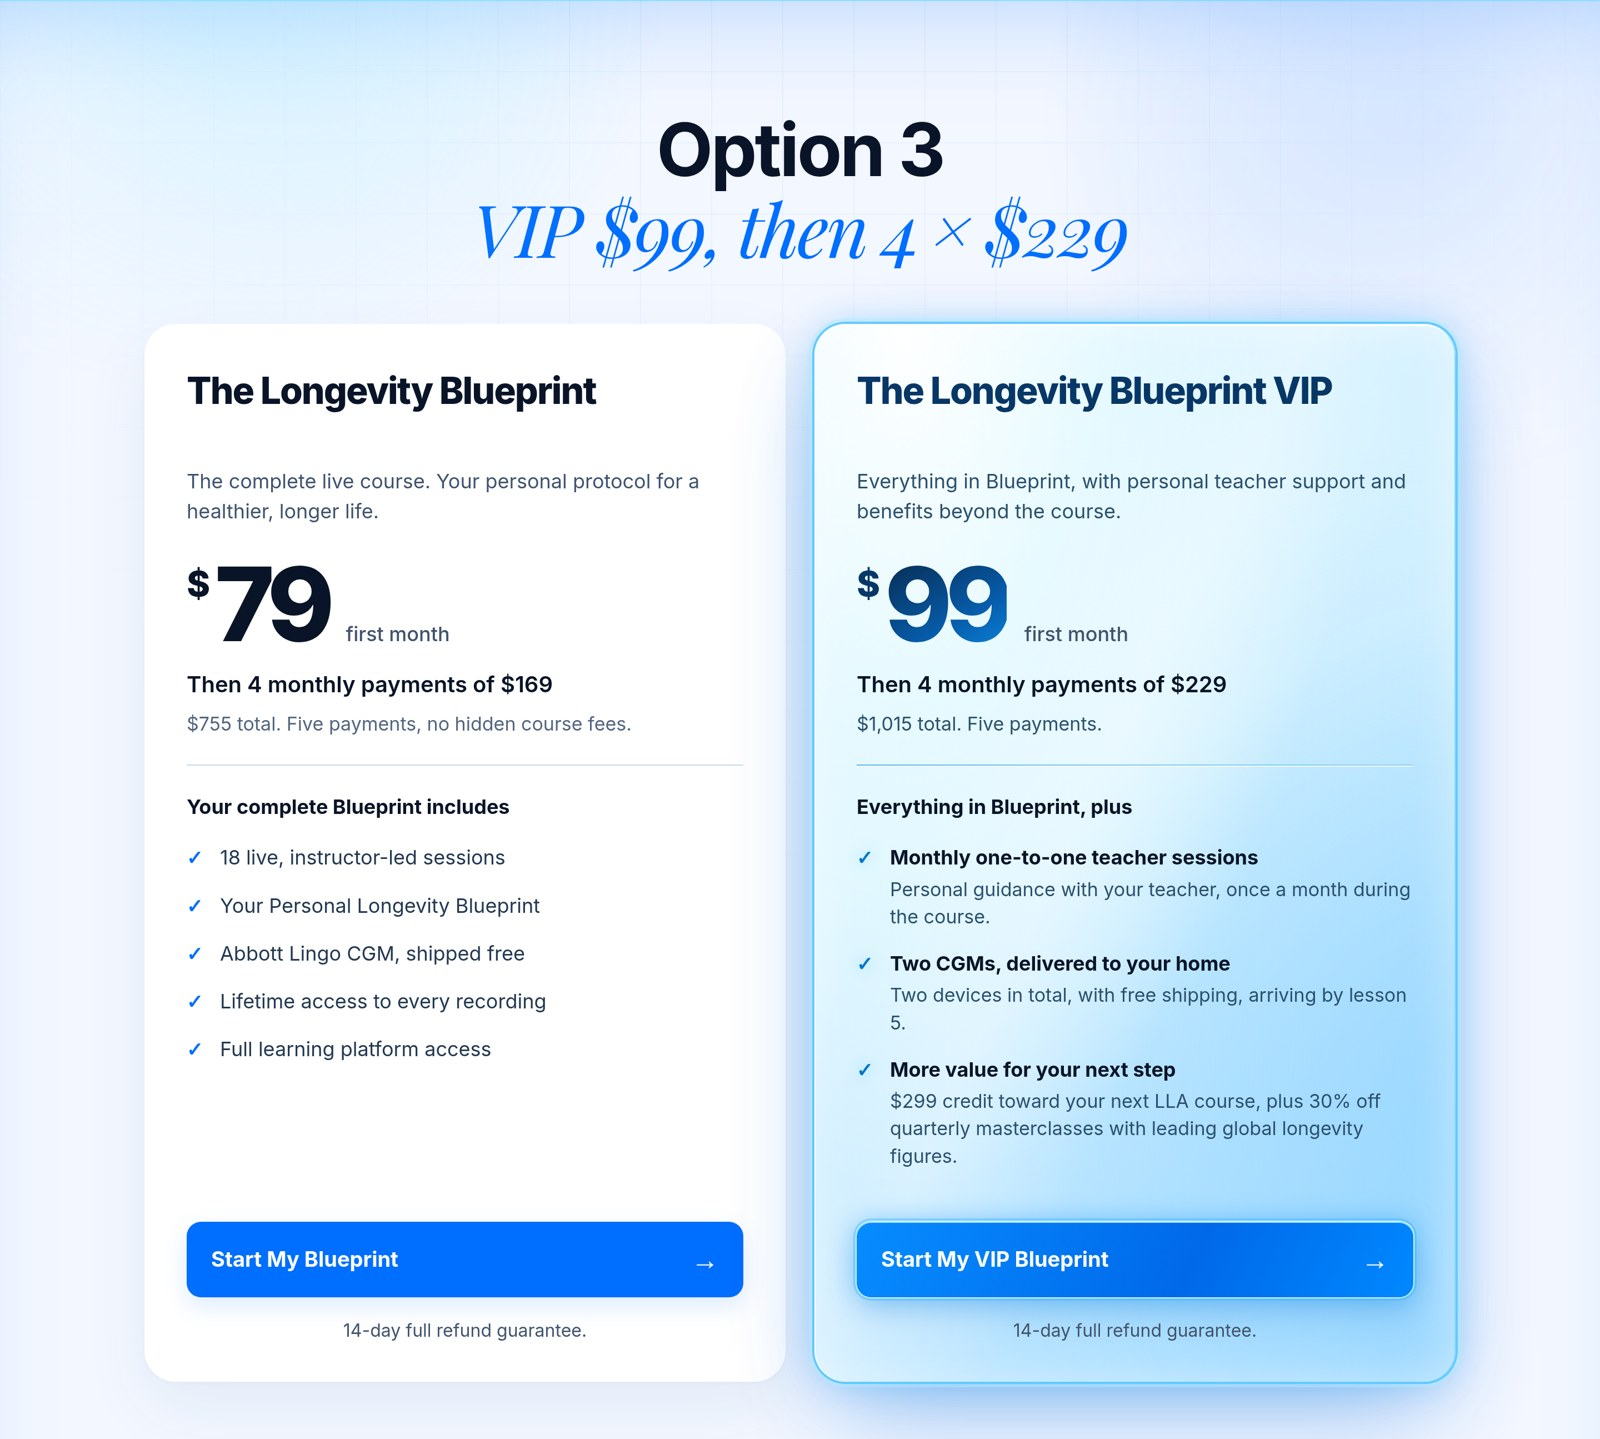
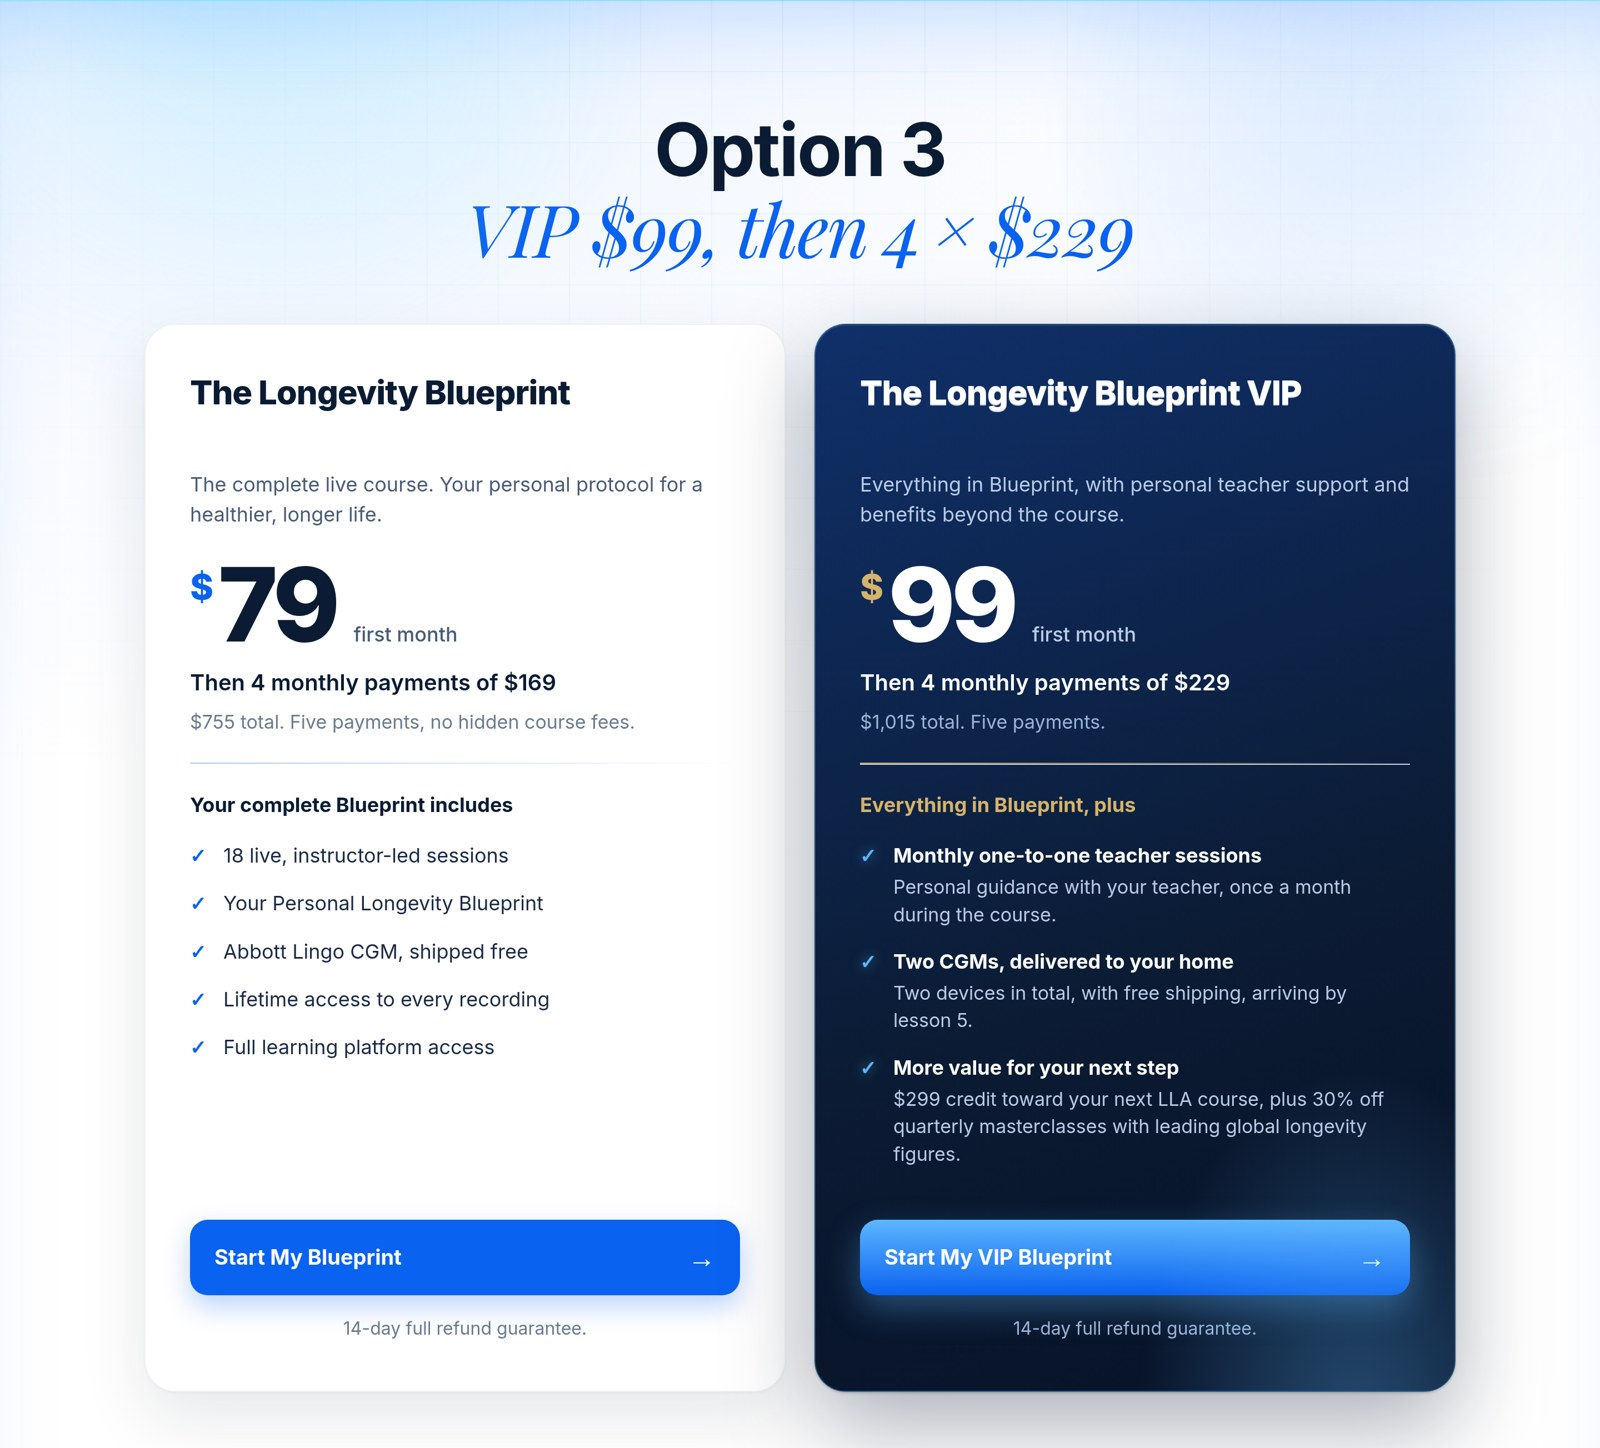
premium card styling: navy VIP, gold accents

diff --git a/compare/premium.css b/compare/premium.css
@@ -1,0 +1,39 @@
+#lpRoot .bp-offer{background:radial-gradient(1200px 700px at 15% 0%,#EAF2FF 0%,#F6F9FF 45%,#FFFFFF 100%)!important}
+#lpRoot .bp-offer .bp-heading h2{color:#0B1B33!important;letter-spacing:-1.5px}
+#lpRoot .bp-offer .bp-heading h2 em{color:#0A62F0!important}
+#lpRoot .bp-card{background:#FFFFFF!important;border:1px solid rgba(11,27,51,.06)!important;border-radius:28px!important;box-shadow:0 1px 2px rgba(11,27,51,.04),0 24px 60px rgba(11,27,51,.10)!important;padding:44px 40px!important}
+#lpRoot .bp-card h3{color:#0B1B33!important;font-size:30px!important;letter-spacing:-.6px}
+#lpRoot .bp-card .bp-desc{color:#4A5B75!important}
+#lpRoot .bp-card .bp-price{color:#0B1B33!important}
+#lpRoot .bp-card .bp-price strong{font-size:92px!important;letter-spacing:-4px!important;line-height:.95}
+#lpRoot .bp-card .bp-price sup{color:#0A62F0!important}
+#lpRoot .bp-card .bp-price span{color:#4A5B75!important}
+#lpRoot .bp-card .bp-follow{color:#0B1B33!important;font-weight:600!important}
+#lpRoot .bp-card .bp-total{color:#6B7A90!important}
+#lpRoot .bp-card .bp-rule{background:linear-gradient(90deg,rgba(10,98,240,.35),rgba(10,98,240,0))!important;height:1px!important}
+#lpRoot .bp-card .bp-included{color:#0B1B33!important}
+#lpRoot .bp-card .bp-features li{color:#1B2A44!important}
+#lpRoot .bp-card .bp-features li::before,#lpRoot .bp-card .bp-features li svg{color:#0A62F0!important;fill:#0A62F0!important}
+#lpRoot .bp-card .bp-button{background:#0A62F0!important;color:#fff!important;border-radius:16px!important;box-shadow:0 10px 24px rgba(10,98,240,.28)!important;border:0!important}
+#lpRoot .bp-card .bp-guarantee{color:#6B7A90!important}
+/* VIP: deep navy */
+#lpRoot .bp-card.bp-vip{background:linear-gradient(160deg,#0F2A5C 0%,#0B1B33 55%,#071226 100%)!important;border:1px solid rgba(94,182,255,.35)!important;box-shadow:0 1px 2px rgba(0,0,0,.2),0 30px 80px rgba(11,27,51,.35),inset 0 1px 0 rgba(255,255,255,.08)!important;position:relative;overflow:hidden}
+#lpRoot .bp-card.bp-vip::after{content:"";position:absolute;inset:auto -20% -40% auto;width:70%;height:70%;background:radial-gradient(closest-side,rgba(94,182,255,.35),rgba(94,182,255,0));pointer-events:none}
+#lpRoot .bp-card.bp-vip h3{color:#FFFFFF!important}
+#lpRoot .bp-card.bp-vip .bp-desc{color:#B9CBE6!important}
+#lpRoot .bp-card.bp-vip .bp-price,#lpRoot .bp-card.bp-vip .bp-price strong{color:#FFFFFF!important}
+#lpRoot .bp-card.bp-vip .bp-price sup{color:#D6B36A!important}
+#lpRoot .bp-card.bp-vip .bp-price span{color:#B9CBE6!important}
+#lpRoot .bp-card.bp-vip .bp-follow{color:#FFFFFF!important}
+#lpRoot .bp-card.bp-vip .bp-total{color:#9DB4D6!important}
+#lpRoot .bp-card.bp-vip .bp-rule{background:linear-gradient(90deg,rgba(214,179,106,.9),rgba(214,179,106,0))!important}
+#lpRoot .bp-card.bp-vip .bp-included{color:#D6B36A!important}
+#lpRoot .bp-card.bp-vip .bp-features li,#lpRoot .bp-card.bp-vip .bp-features li b,#lpRoot .bp-card.bp-vip .bp-features li strong{color:#FFFFFF!important}
+#lpRoot .bp-card.bp-vip .bp-features li .bp-detail,#lpRoot .bp-card.bp-vip .bp-features li small,#lpRoot .bp-card.bp-vip .bp-features li span{color:#B9CBE6!important}
+#lpRoot .bp-card.bp-vip .bp-features li::before,#lpRoot .bp-card.bp-vip .bp-features li svg{color:#5EB6FF!important;fill:#5EB6FF!important}
+#lpRoot .bp-card.bp-vip .bp-button{background:linear-gradient(180deg,#5EB6FF,#0A62F0)!important;color:#fff!important;box-shadow:0 12px 30px rgba(94,182,255,.35)!important}
+#lpRoot .bp-card.bp-vip .bp-guarantee{color:#9DB4D6!important}
+#lpRoot .bp-card.bp-vip .bp-price strong{background:none!important;-webkit-text-fill-color:#FFFFFF!important;color:#FFFFFF!important;text-shadow:none!important}
+#lpRoot .bp-card.bp-vip::before{display:none!important}
+#lpRoot .bp-card.bp-vip{background-image:linear-gradient(160deg,#10306A 0%,#0B1B33 60%,#071226 100%)!important}
+#lpRoot .bp-card .bp-price strong{background:none!important;-webkit-text-fill-color:#0B1B33!important}

diff --git a/options/index.html b/options/index.html
@@ -1780,7 +1780,7 @@ body.lla-em-open #et-bumpyard-widget{display:none!important}
   html body#lpRoot #hero .pdp-cine-sub{font-family:'Inter',sans-serif!important;font-style:normal!important;text-transform:none!important}
 }
 </style>
-<link rel="stylesheet" href="../relaunch.css?v=vip199"><style id="opt-only">body>*:not(section.bp-offer):not(script):not(style){display:none!important}body>section.bp-offer{display:block!important}.bp-foot{display:none!important}[class^="lla-cta"],.lla-cta,#llaCta,.lla-sticky-cta,.lla-float-cta,#llaFloatCta,[id^="llaFloat"],.lla-float-cta--home{display:none!important;visibility:hidden!important}</style></head>
+<link rel="stylesheet" href="../relaunch.css?v=vip199"><style id="opt-only">body>*:not(section.bp-offer):not(script):not(style){display:none!important}body>section.bp-offer{display:block!important}.bp-foot{display:none!important}[class^="lla-cta"],.lla-cta,#llaCta,.lla-sticky-cta,.lla-float-cta,#llaFloatCta,[id^="llaFloat"],.lla-float-cta--home{display:none!important;visibility:hidden!important}</style><link rel="stylesheet" href="../compare/premium.css?v=p2"></head>
 <body id="lpRoot">
 <!-- Google Tag Manager (noscript) -->
 

diff --git a/compare/index.html b/compare/index.html
@@ -1,4 +1,4 @@
 <!doctype html><html lang="en"><head><meta charset="utf-8"><meta name="viewport" content="width=device-width,initial-scale=1"><meta name="robots" content="noindex"><title>Blueprint VIP pricing · 3 options</title>
 <style>body{margin:0;background:#F3F7FC;font-family:-apple-system,Inter,sans-serif;color:#0B1B33}.w{max-width:1100px;margin:0 auto;padding:16px 10px 40px}h1{font-size:22px;margin:6px 6px 14px;letter-spacing:-.3px}img{width:100%;display:block;border-radius:14px;box-shadow:0 6px 24px rgba(11,27,51,.12);margin-bottom:18px;background:#fff}</style></head>
 <body><div class="w"><h1>Blueprint VIP pricing · 3 options</h1>
-<img src="option-1.jpg?v=1" alt="Option 1: VIP $99, then 4 × $199"><img src="option-2.jpg?v=1" alt="Option 2: VIP $129, then 4 × $229"><img src="option-3.jpg?v=1" alt="Option 3: VIP $99, then 4 × $229"></div></body></html>
+<img src="option-1.jpg?v=2" alt="Option 1: VIP $99, then 4 × $199"><img src="option-2.jpg?v=2" alt="Option 2: VIP $129, then 4 × $229"><img src="option-3.jpg?v=2" alt="Option 3: VIP $99, then 4 × $229"></div></body></html>
